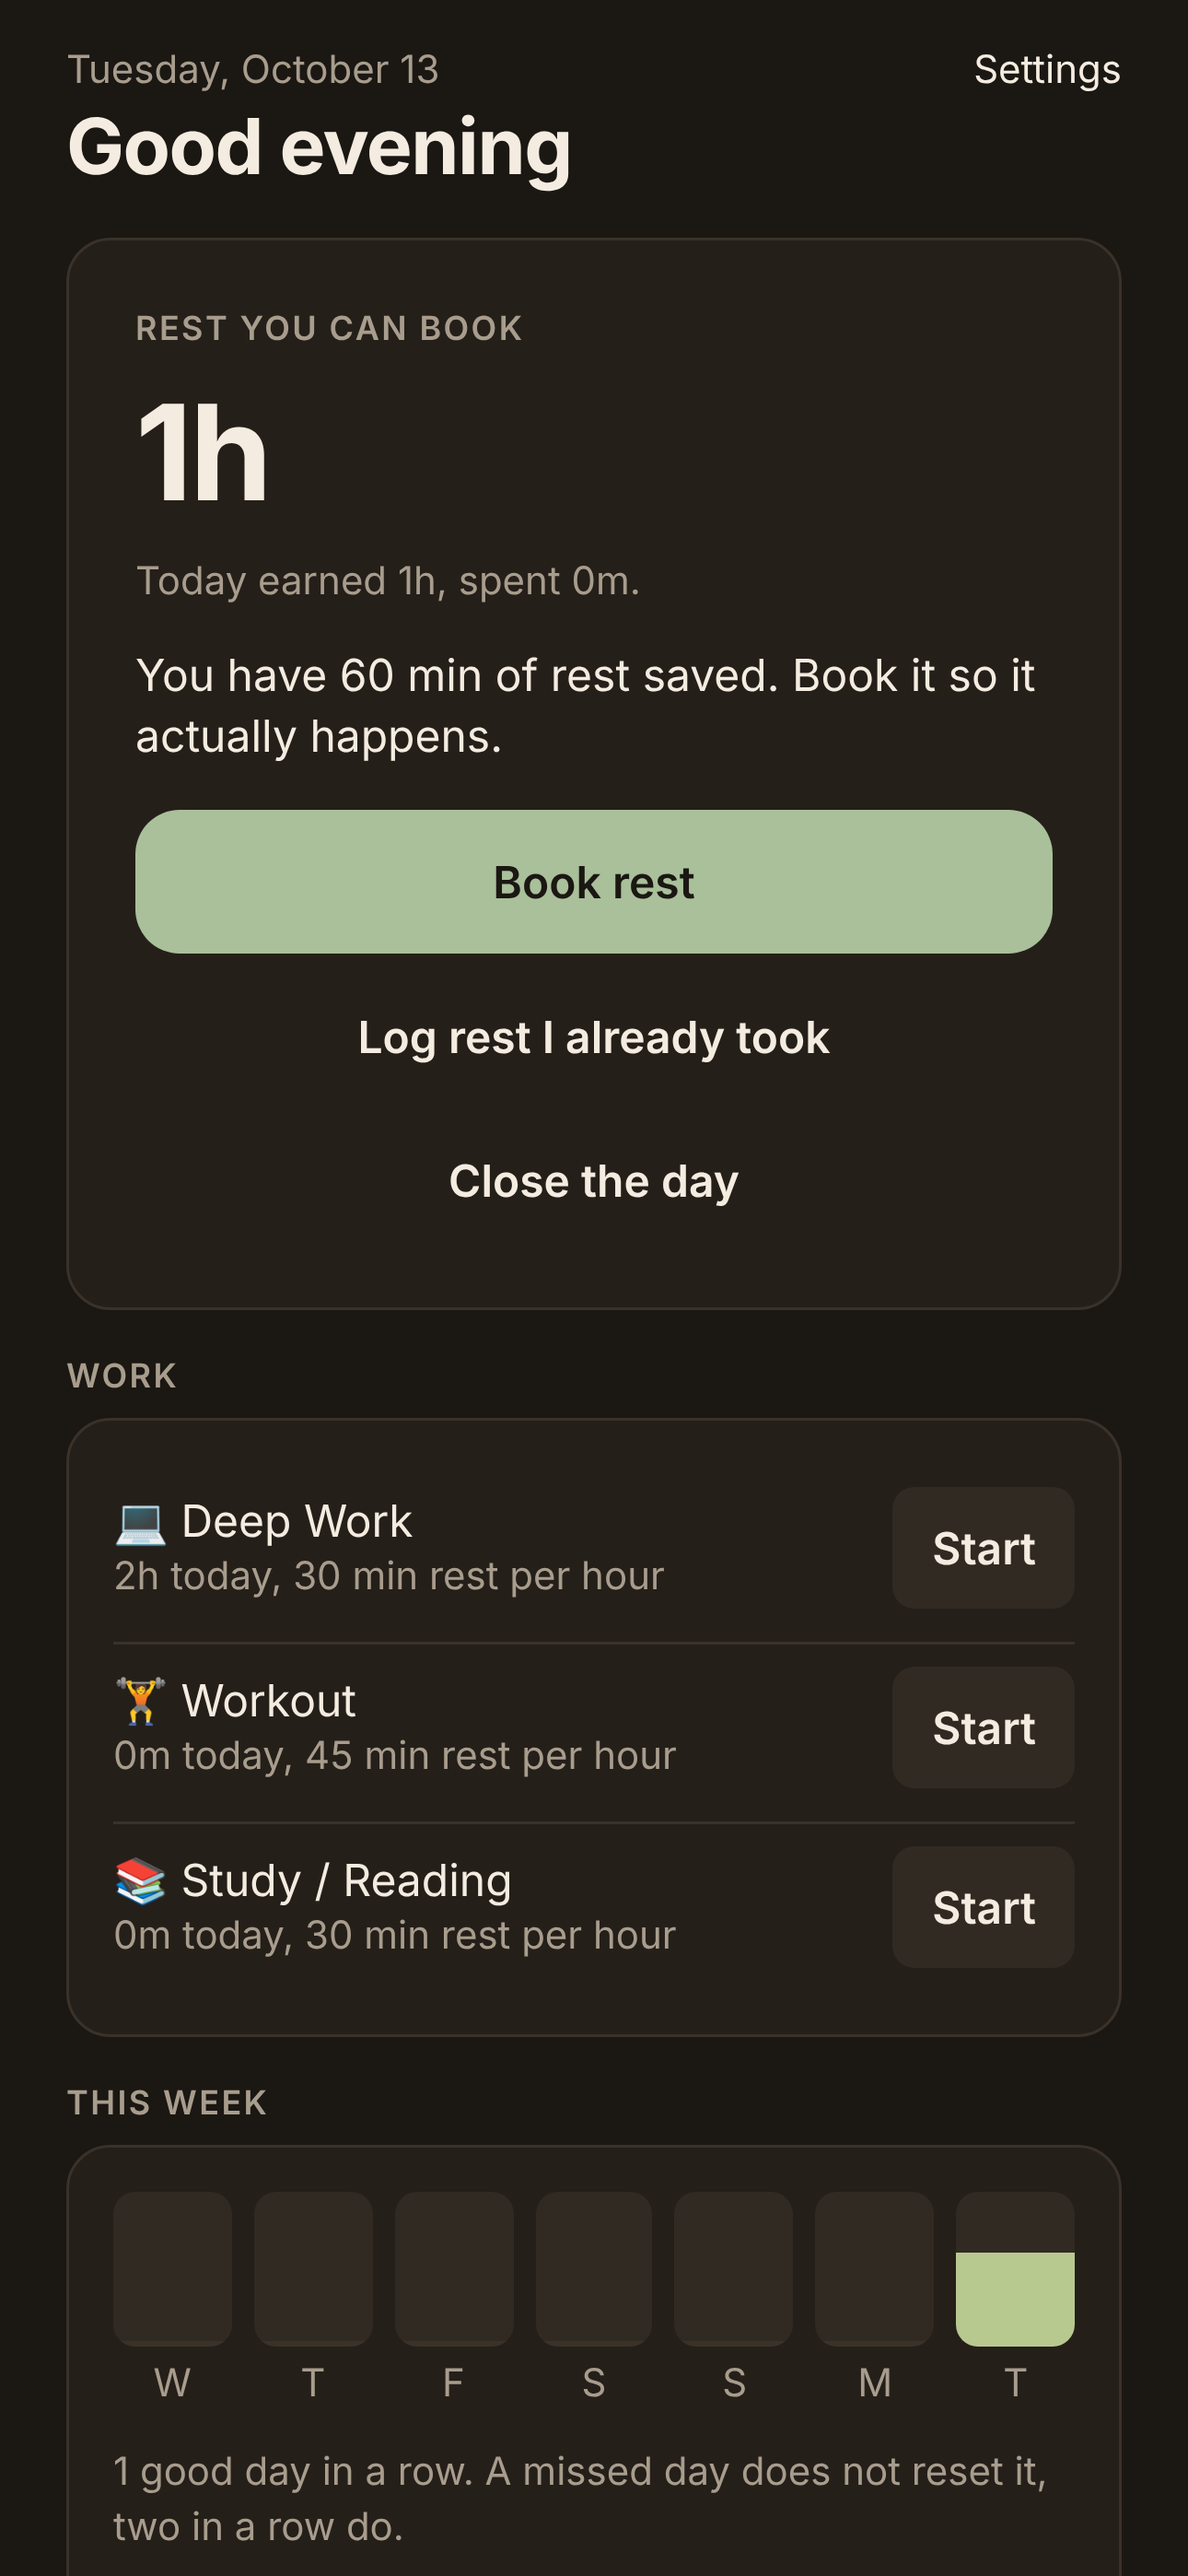
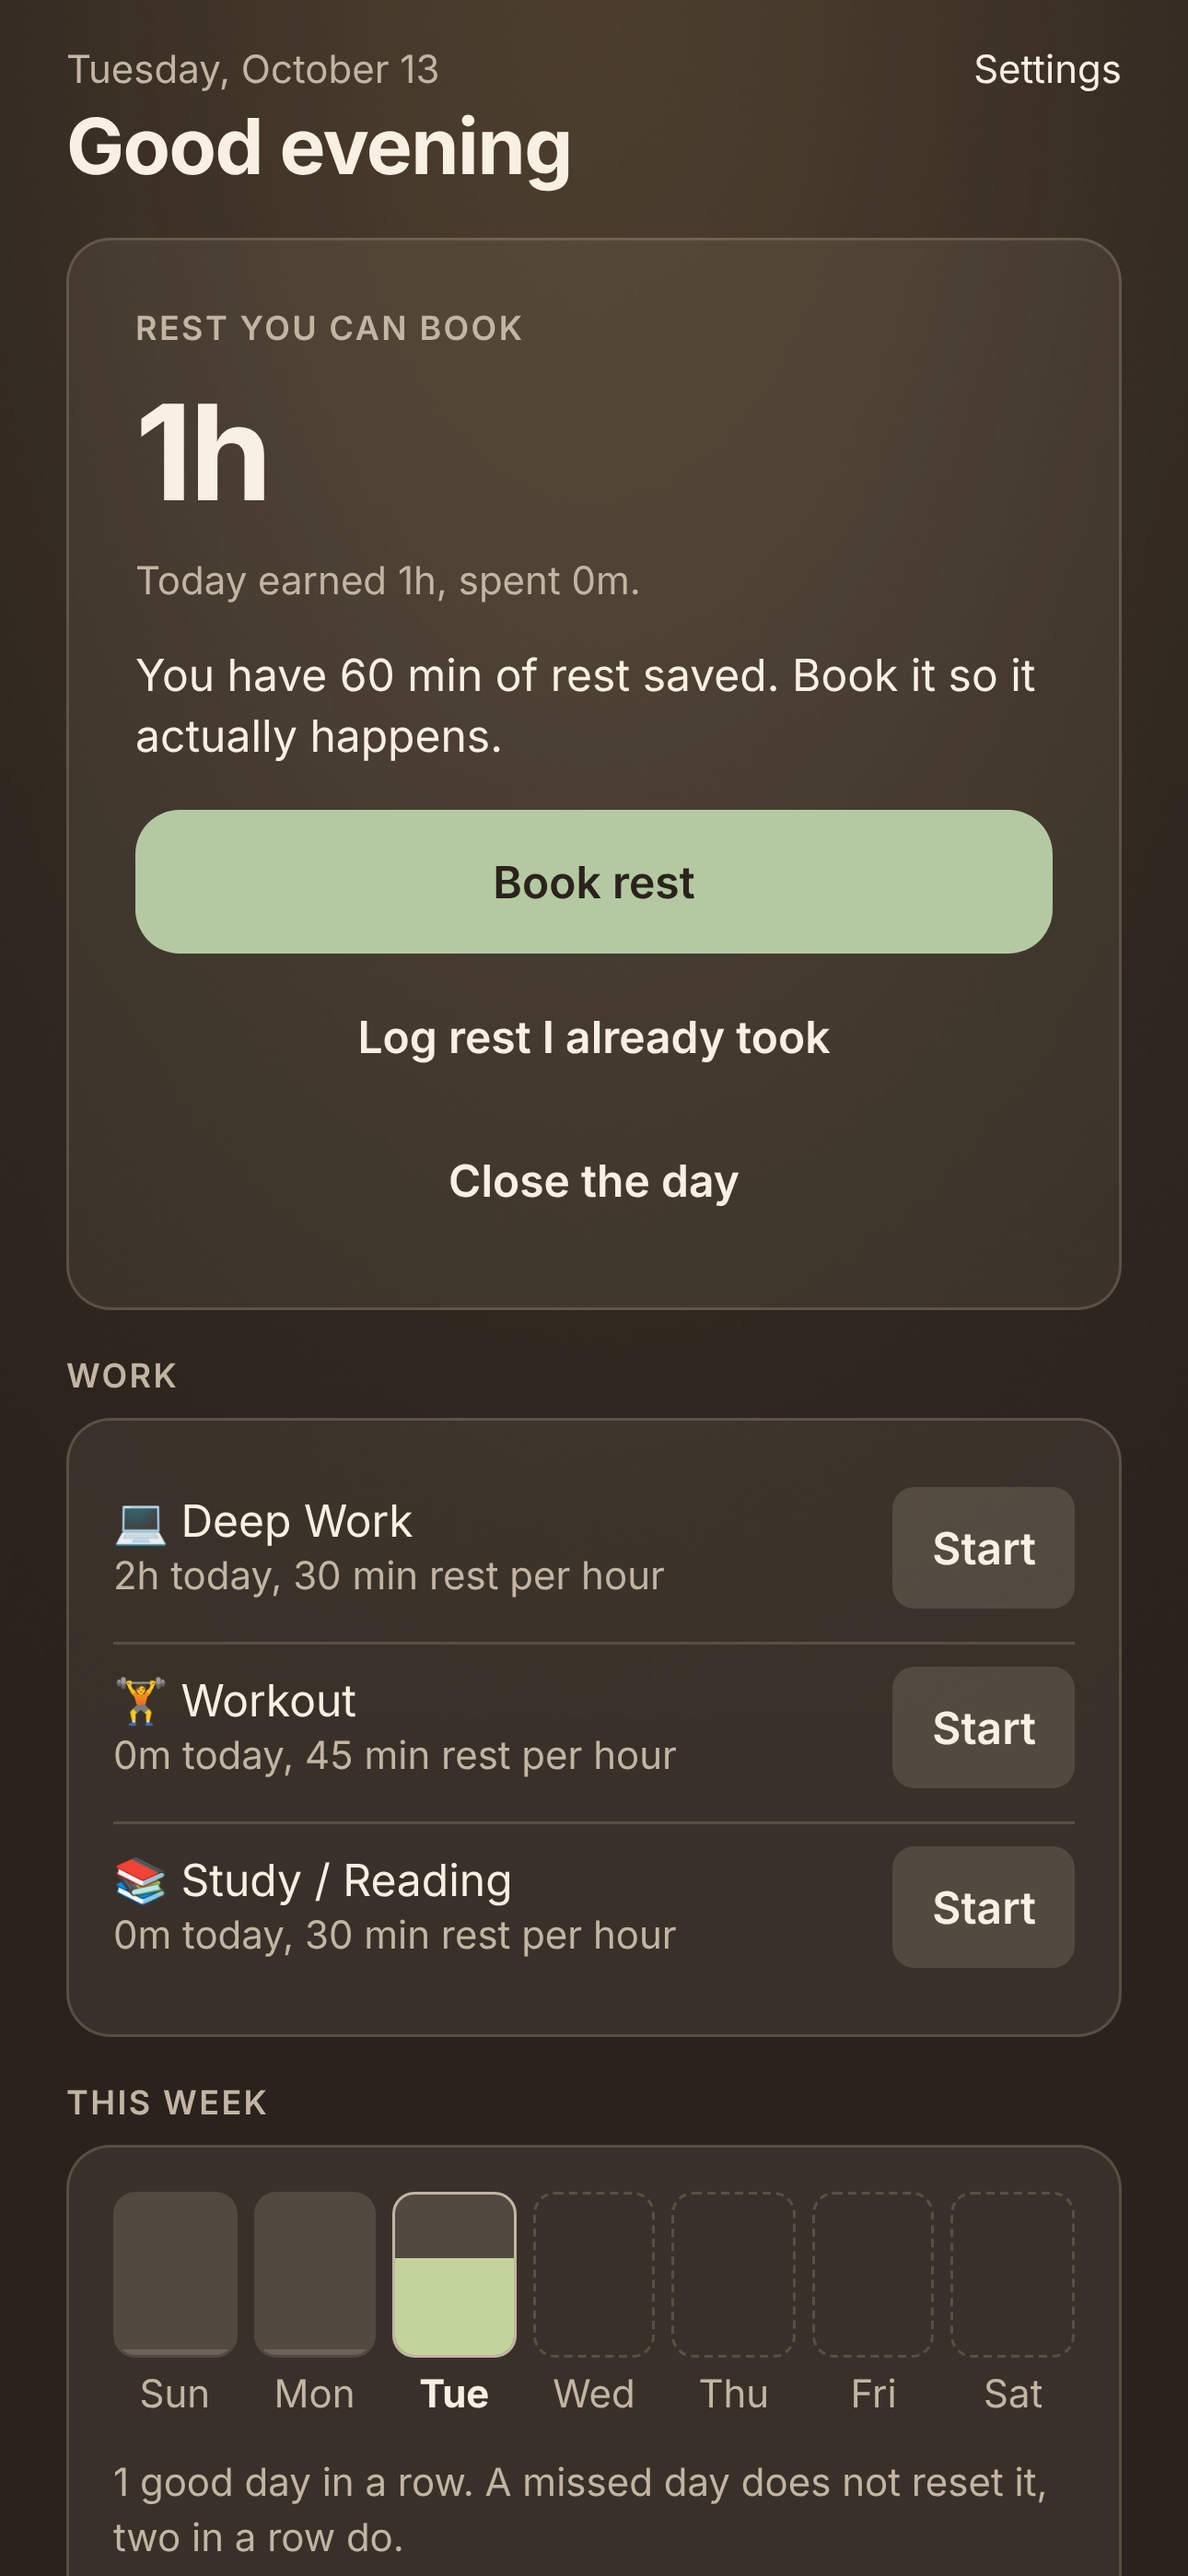
Lighter lamp-lit look; keep scrolled content out of the status bar
A lighter, warmer palette with translucent surfaces, and a soft lamp glow at
the top of every screen. The glow is a pre-rendered image, so there is no new
dependency and it looks the same on every platform.

A strip as tall as the safe area repaints the wall over the status bar, so
cards that scroll up no longer show their corners behind the clock.

Icons, splash and store screenshots are regenerated from the same palette with
scripts/make-images.py.

Claude-Session: https://claude.ai/code/session_019ffQuZEKGA3GPgQN2MLQP2

diff --git a/src/ui/Screen.tsx b/src/ui/Screen.tsx
@@ -1,7 +1,8 @@
 import { ReactNode } from 'react';
 import { KeyboardAvoidingView, Platform, ScrollView, StyleSheet, View, ViewStyle } from 'react-native';
 import { useSafeAreaInsets } from 'react-native-safe-area-context';
-import { colors, space } from '@/theme';
+import { space } from '@/theme';
+import { Backdrop } from '@/ui/Backdrop';
 
 interface Props {
   children: ReactNode;
@@ -26,16 +27,27 @@ export function Screen({ children, footer, scroll = true, padTop = true, style }
     <View style={[styles.content, styles.fill, { paddingTop: top }, style]}>{children}</View>
   );
   return (
-    <KeyboardAvoidingView style={styles.root} behavior={Platform.OS === 'ios' ? 'padding' : undefined}>
-      {body}
-      {footer ? <View style={[styles.footer, { paddingBottom: Math.max(insets.bottom, space.lg) }]}>{footer}</View> : null}
-    </KeyboardAvoidingView>
+    <View style={styles.root}>
+      <Backdrop />
+      <KeyboardAvoidingView style={styles.fill} behavior={Platform.OS === 'ios' ? 'padding' : undefined}>
+        {body}
+        {footer ? <View style={[styles.footer, { paddingBottom: Math.max(insets.bottom, space.lg) }]}>{footer}</View> : null}
+      </KeyboardAvoidingView>
+      {padTop ? (
+        // Content scrolls up under the clock and battery. This repaints the wall over that strip, so cards
+        // never show their corners behind the status bar.
+        <View pointerEvents="none" style={[styles.statusStrip, { height: insets.top }]}>
+          <Backdrop />
+        </View>
+      ) : null}
+    </View>
   );
 }
 
 const styles = StyleSheet.create({
-  root: { flex: 1, backgroundColor: colors.bg },
+  root: { flex: 1 },
   fill: { flex: 1 },
+  statusStrip: { position: 'absolute', top: 0, left: 0, right: 0, overflow: 'hidden' },
   content: { paddingHorizontal: space.xl, paddingBottom: space.xxl, gap: space.lg },
   footer: { paddingHorizontal: space.xl, paddingTop: space.md, gap: space.sm },
 });

diff --git a/src/theme.ts b/src/theme.ts
@@ -1,16 +1,18 @@
-// Design tokens. Dark only: a warm evening room, lamp light on linen and wood.
+// Design tokens. Dark only: a warm evening room, lamp light on a wall, linen and sage.
+// Cards and chips are a little light laid over the wall, so they read the same under the lamp glow and away from it.
+// scripts/make-images.py draws the icon and the lamp glow from these colors; run it after changing them.
 export const colors = {
-  bg: '#1b1713',
-  surface: '#251f1a',
-  surfaceHigh: '#312a23',
-  border: '#3a3229',
-  text: '#f4ece0',
-  muted: '#a89d8d',
-  grind: '#e3a05a', // work: lamp amber
-  glow: '#a9c09a', // rest: sage
-  good: '#b8c98f',
-  danger: '#e8806f',
-  onAccent: '#1b1713',
+  bg: '#2a231d',
+  surface: 'rgba(255, 238, 214, 0.075)',
+  surfaceHigh: 'rgba(255, 238, 214, 0.13)',
+  border: 'rgba(255, 238, 214, 0.16)',
+  text: '#f8f0e3',
+  muted: '#c2b5a3',
+  grind: '#f0b266', // work: lamp amber
+  glow: '#b4c9a2', // rest: sage
+  good: '#c2d49b',
+  danger: '#ee8b78',
+  onAccent: '#2a231d',
 } as const;
 
 export const radius = { sm: 8, md: 16, pill: 9999 } as const;

diff --git a/src/ui/Backdrop.tsx b/src/ui/Backdrop.tsx
@@ -1,0 +1,22 @@
+import { Image, StyleSheet, View, useWindowDimensions } from 'react-native';
+import { colors } from '@/theme';
+
+// The wall behind every screen, with lamp light falling from the top.
+// The light is a soft picture (see scripts/make-images.py), so it looks the same on every platform.
+// An Image takes the width of its file unless told otherwise, so the width is set to the full screen.
+export function Backdrop() {
+  const { height } = useWindowDimensions();
+  return (
+    <View pointerEvents="none" style={[StyleSheet.absoluteFill, { backgroundColor: colors.bg }]}>
+      <Image
+        source={require('../../assets/images/lamp.png')}
+        resizeMode="stretch"
+        style={[styles.lamp, { height: Math.min(height, 620) }]}
+      />
+    </View>
+  );
+}
+
+const styles = StyleSheet.create({
+  lamp: { position: 'absolute', top: 0, left: 0, width: '100%' },
+});

diff --git a/scripts/make-images.py b/scripts/make-images.py
@@ -1,0 +1,90 @@
+#!/usr/bin/env python3
+"""Draws the images that depend on the palette: app icon, splash, Android icons, favicon and the
+lamp glow behind every screen. Run it after changing the colors in src/theme.ts.
+
+    python3 scripts/make-images.py        (needs Pillow and numpy)
+"""
+import math
+from pathlib import Path
+
+import numpy as np
+from PIL import Image, ImageDraw
+
+OUT = Path(__file__).resolve().parent.parent / 'assets' / 'images'
+
+# Keep in step with src/theme.ts and app.json.
+BG = (0x2a, 0x23, 0x1d)
+AMBER = (0xf0, 0xb2, 0x66)
+SAGE = (0xb4, 0xc9, 0xa2)
+LAMP = (255, 201, 138)  # colour of the light
+LAMP_STRENGTH = 0.16  # how strongly the light lifts the wall at its brightest
+
+
+def glow_alpha(w: int, h: int, cx: float, cy: float, rx: float, ry: float, strength: float, seed: int = 1) -> np.ndarray:
+    """Soft elliptical falloff, 0..strength, with a touch of noise so 8-bit steps do not show as bands."""
+    y, x = np.mgrid[0:h, 0:w].astype(np.float64)
+    d2 = ((x / w - cx) / rx) ** 2 + ((y / h - cy) / ry) ** 2
+    a = strength * np.exp(-d2 * 1.6)
+    rng = np.random.default_rng(seed)
+    return np.clip(a + (rng.random((h, w)) - 0.5) * (1.0 / 255), 0, 1)
+
+
+def lamp_png(path: Path) -> None:
+    """Lamp light falling from the top of the screen. Transparent PNG, stretched over the top of each screen."""
+    w, h = 256, 512
+    a = glow_alpha(w, h, cx=0.5, cy=0.0, rx=0.62, ry=0.80, strength=LAMP_STRENGTH * 1.0)
+    rgba = np.zeros((h, w, 4), dtype=np.uint8)
+    rgba[..., 0], rgba[..., 1], rgba[..., 2] = LAMP
+    rgba[..., 3] = np.round(a * 255).astype(np.uint8)
+    Image.fromarray(rgba, 'RGBA').save(path)
+
+
+SS = 4
+
+
+def arc_mask(n: int, c: float, radius: float, width: float, centre_deg: float) -> Image.Image:
+    m = Image.new('L', (n, n), 0)
+    d = ImageDraw.Draw(m)
+    ro, ri = radius + width / 2, radius - width / 2
+    d.pieslice((c - ro, c - ro, c + ro, c + ro), centre_deg - 70, centre_deg + 70, fill=255)
+    d.ellipse((c - ri, c - ri, c + ri, c + ri), fill=0)
+    for a in (centre_deg - 70, centre_deg + 70):  # round caps
+        x, y = c + radius * math.cos(math.radians(a)), c + radius * math.sin(math.radians(a))
+        d.ellipse((x - width / 2, y - width / 2, x + width / 2, y + width / 2), fill=255)
+    return m
+
+
+def arcs(size: int, background, left, right, scale: float = 1.0) -> Image.Image:
+    """The two arcs: work (left) and rest (right). `background` is an RGBA image, a colour, or None."""
+    n = size * SS
+    k = n / 1024 * scale
+    c, radius, width = n / 2, 262 * k, 112 * k
+    if isinstance(background, Image.Image):
+        im = background.resize((n, n), Image.LANCZOS).convert('RGBA')
+    else:
+        im = Image.new('RGBA', (n, n), background if background else (0, 0, 0, 0))
+    for colour, deg in ((left, 180), (right, 0)):
+        im.paste(Image.new('RGBA', (n, n), colour + (255,)), (0, 0), arc_mask(n, c, radius, width, deg))
+    return im.resize((size, size), Image.LANCZOS)
+
+
+def lit_wall(size: int) -> Image.Image:
+    """Flat wall colour with the lamp glow at the top: the icon background."""
+    a = glow_alpha(size, size, cx=0.5, cy=0.0, rx=0.75, ry=0.9, strength=LAMP_STRENGTH * 1.4)
+    wall = np.zeros((size, size, 3), dtype=np.float64)
+    wall[:] = BG
+    light = np.array(LAMP, dtype=np.float64)
+    rgb = wall * (1 - a[..., None]) + light * a[..., None]
+    return Image.fromarray(np.clip(np.round(rgb), 0, 255).astype(np.uint8), 'RGB')
+
+
+if __name__ == '__main__':
+    OUT.mkdir(parents=True, exist_ok=True)
+    lamp_png(OUT / 'lamp.png')
+    arcs(1024, lit_wall(1024), AMBER, SAGE).convert('RGB').save(OUT / 'icon.png')
+    arcs(400, None, AMBER, SAGE, 0.95).save(OUT / 'splash-icon.png')
+    arcs(48, lit_wall(48), AMBER, SAGE, 1.15).convert('RGB').save(OUT / 'favicon.png')
+    arcs(512, None, AMBER, SAGE, 0.62).save(OUT / 'android-icon-foreground.png')
+    lit_wall(512).convert('RGBA').save(OUT / 'android-icon-background.png')
+    arcs(432, None, (255, 255, 255), (255, 255, 255), 0.62).save(OUT / 'android-icon-monochrome.png')
+    print('wrote', ', '.join(sorted(p.name for p in OUT.glob('*.png'))))
